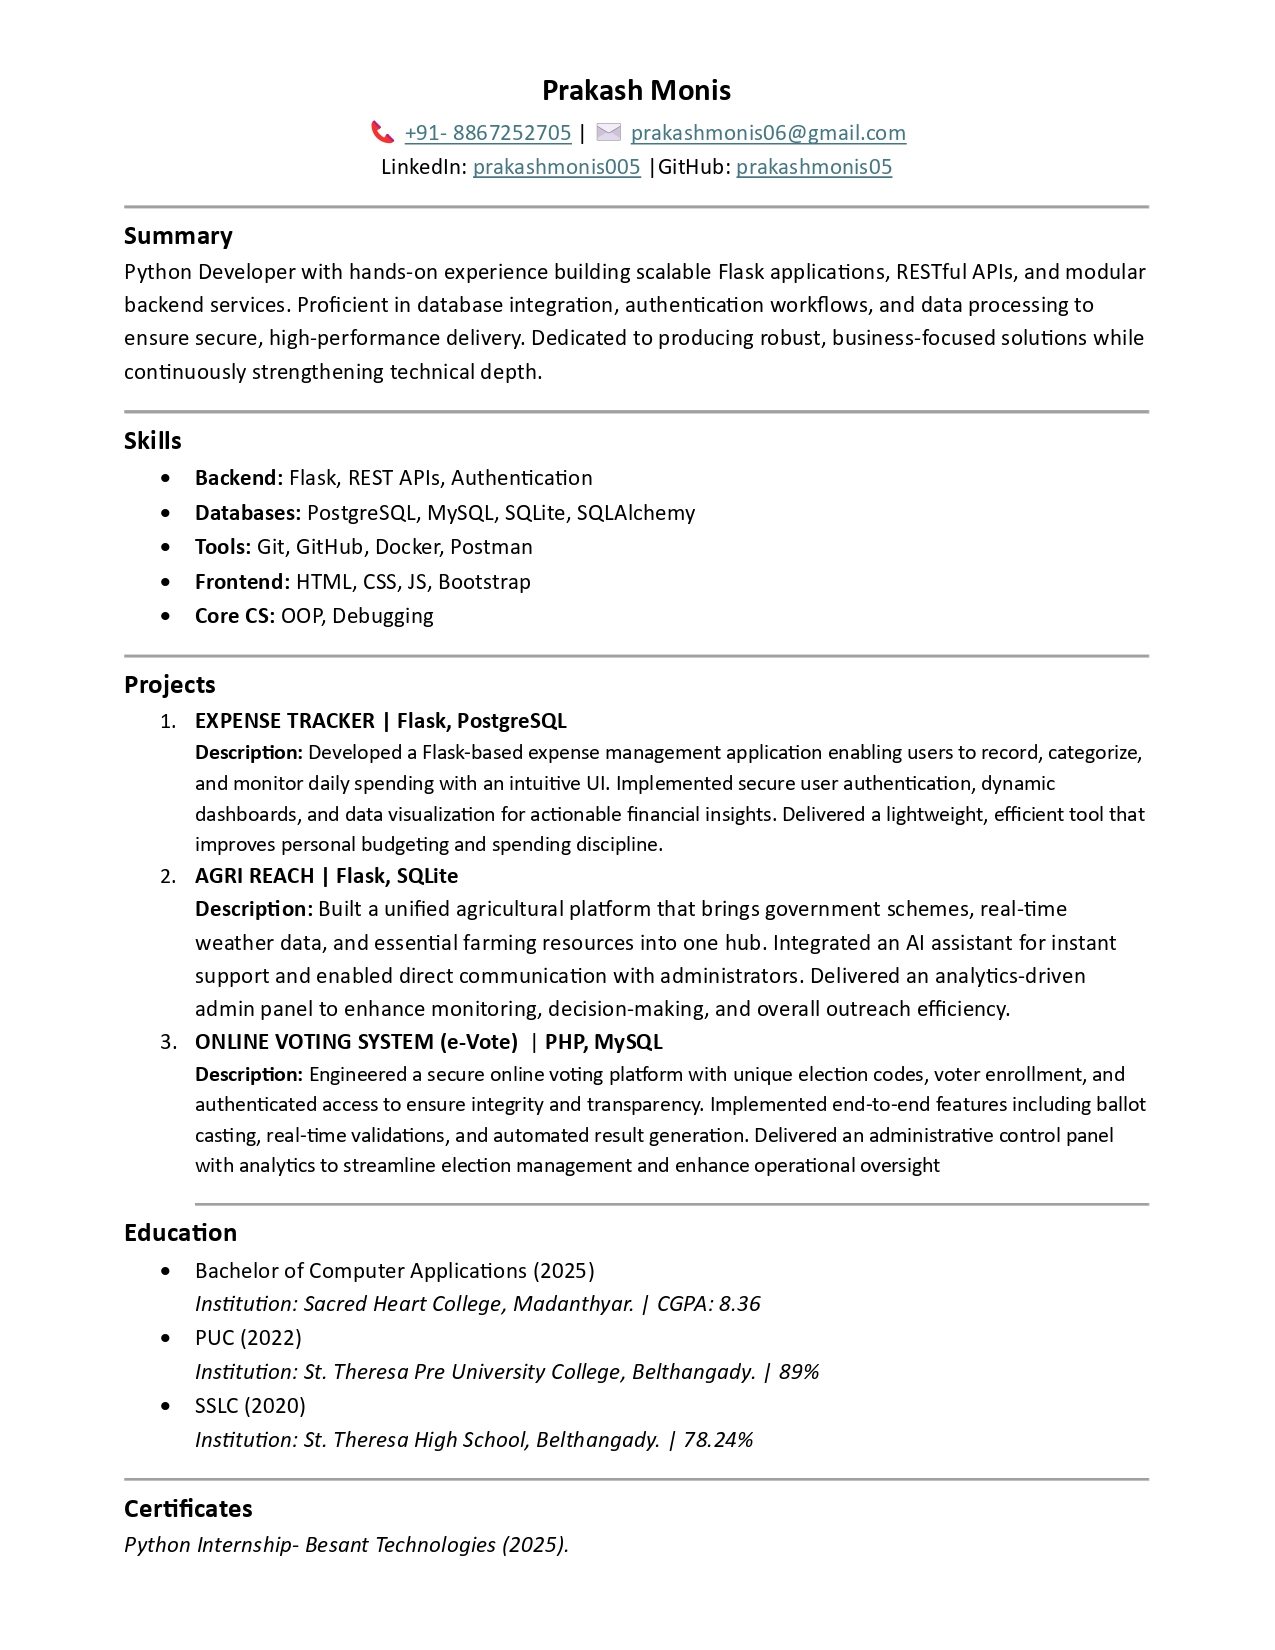
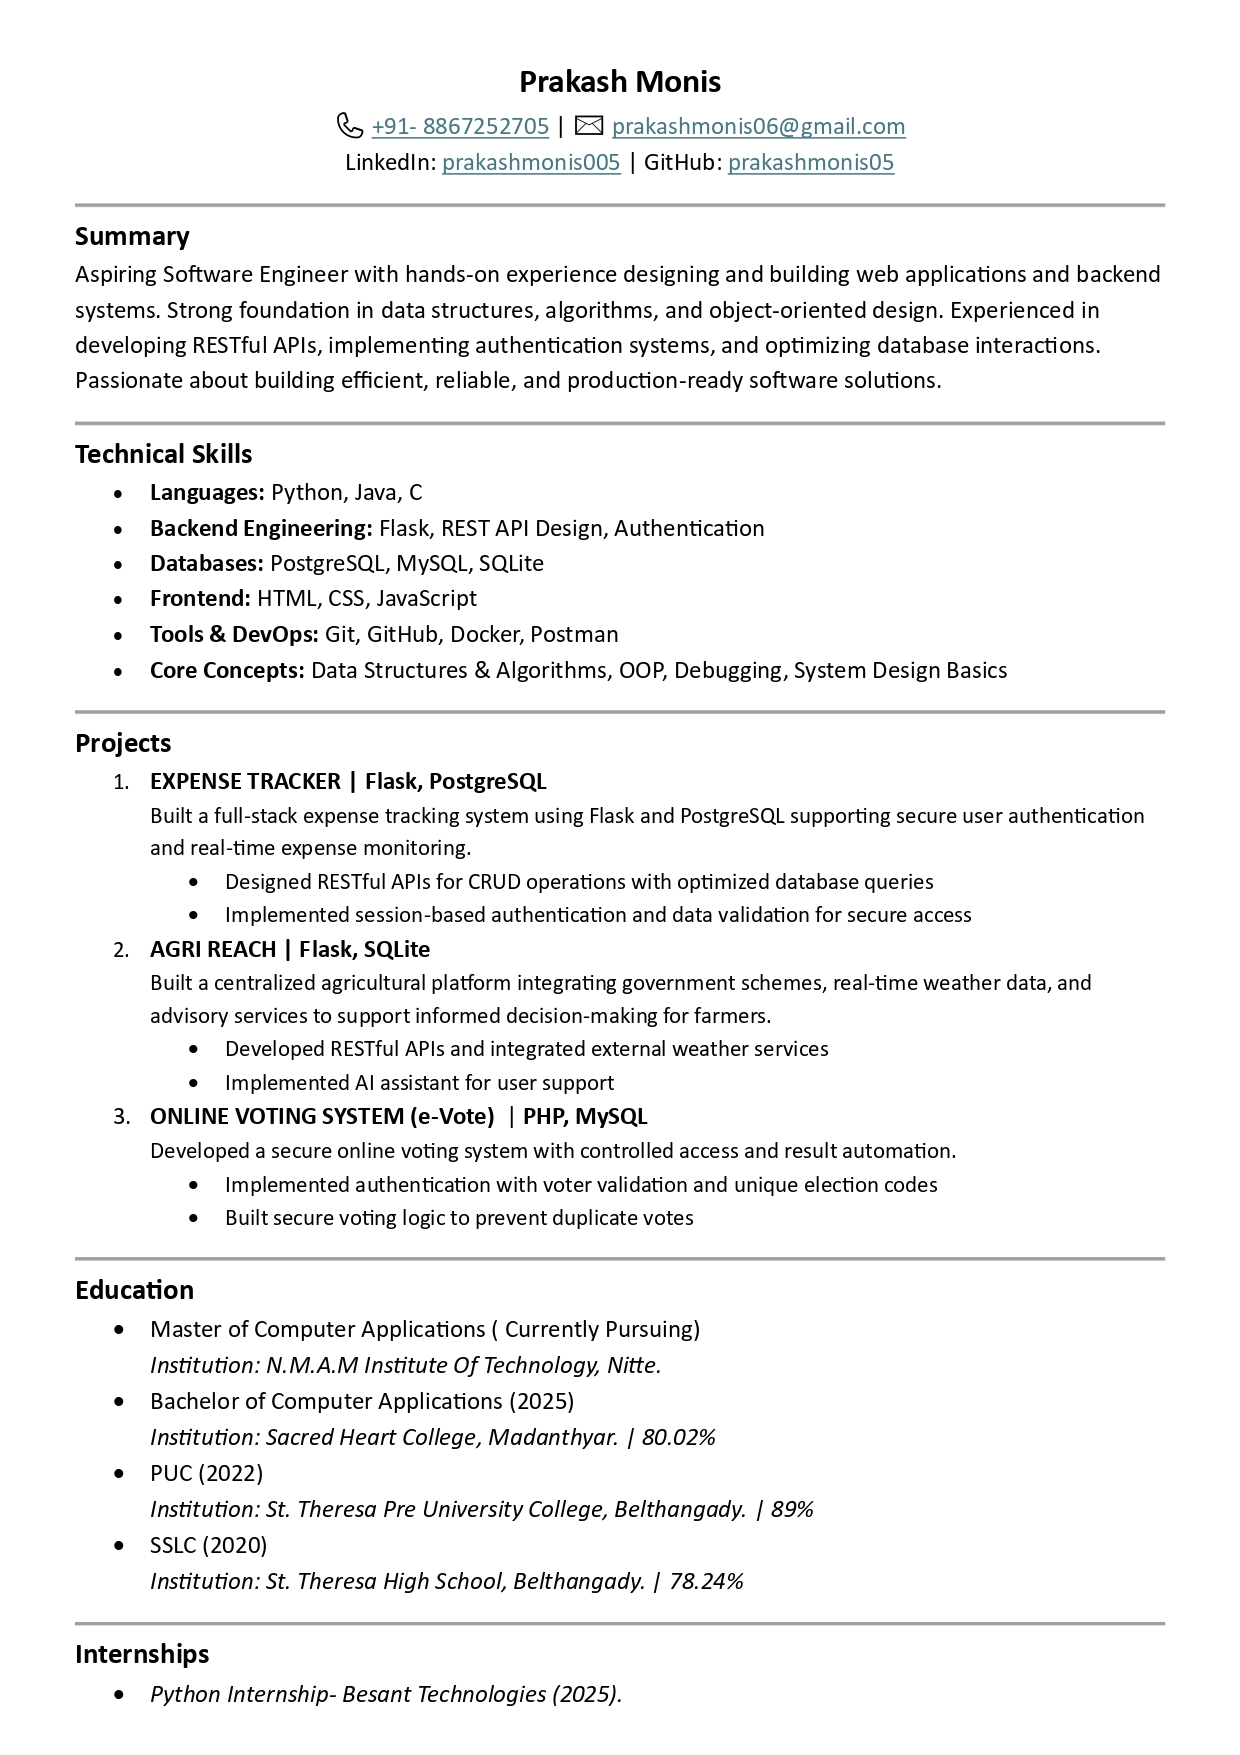
Updated resume

Changed region(s): [[0.0613, 0.0309, 0.9194, 0.9891]]

diff --git a/data/portfolioData.ts b/data/portfolioData.ts
@@ -108,7 +108,6 @@ export const SKILLS_CATEGORIES: Record<string, string[]> = {
     'Next.js',
     'Tailwind CSS',
     'Bootstrap',
-    'Redux',
     'Responsive Design'
   ],
 
@@ -160,7 +159,7 @@ export const CERTIFICATES: Certificate[] = [
     issuer: 'Besant Technologies',
     year: '2025',
     description: 'Completed a Python internship focused on developing practical programming skills, problem-solving, and application development.',
-    image: '/images/internship.jpeg',
+    image: '/images/Internship1.jpeg',
     credential: '#'
   },
   {
